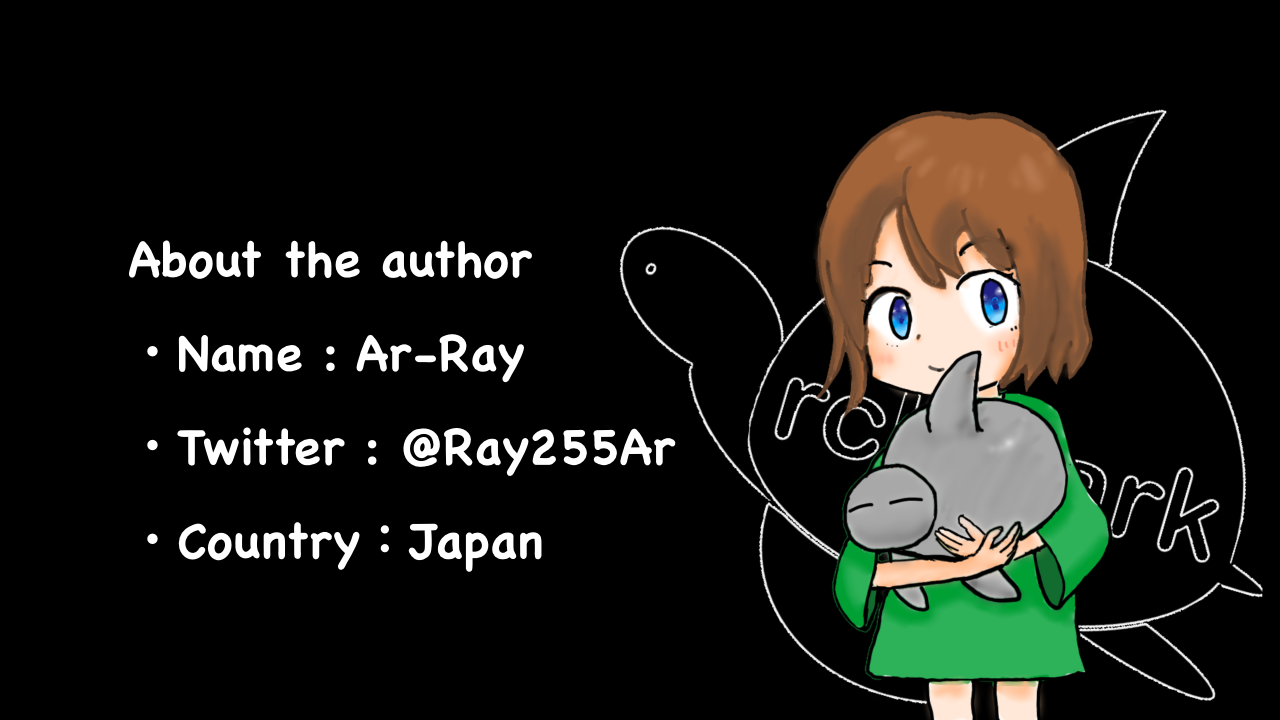
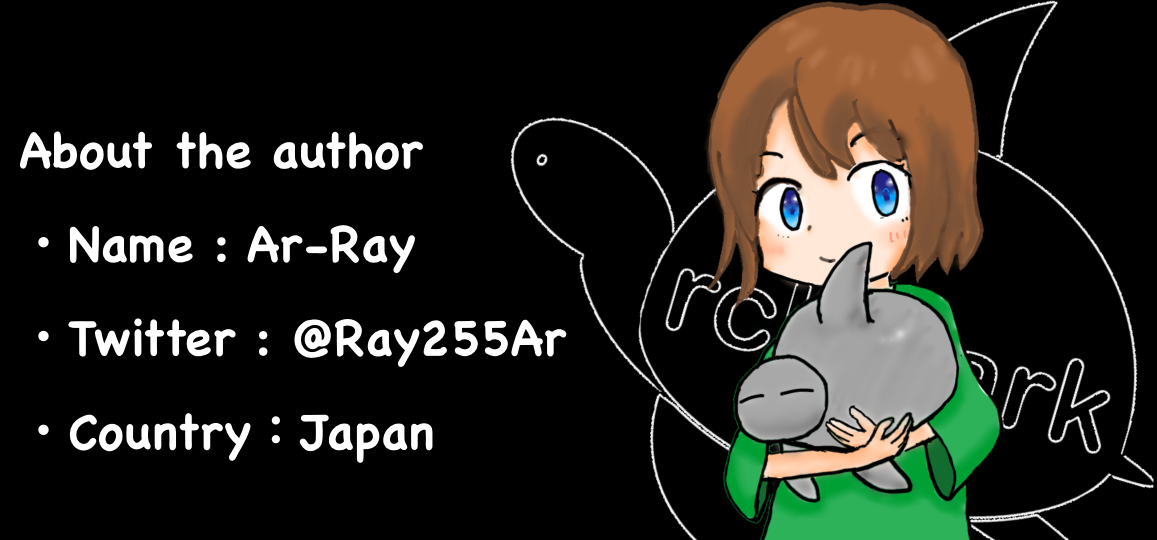
update rclshark

diff --git a/README.md b/README.md
@@ -8,11 +8,7 @@ latest : [v1.0.3](https://github.com/Ar-Ray-code/rclshark/releases/tag/v1.0.3)
 
 Monitor the status of computers on a network using the DDS function of ROS2.
 
-開発者向けのツールで、リモートマシンへのSSHログインの際に必要なローカルIPアドレスを簡単に発見します。リモートマシンに対して拡張機能を追加し、CPU温度などのマシン内部の情報をログイン無しでモニタリングすることもできます。
-
-rclsharkはセットアップされたデバイスに対してIPアドレス固定などのデバイスごとの面倒なセットアップ無しにIPアドレスの取得を行い、デバイスの状態を取得することができます。インストールも簡単で、組み込みコンピュータの新規開発のお供として役に立ちます。
-
-<img src="images_for_readme/rclshark_swim.png" alt="rclshark_swim"  />
+![rclshark-title](images_for_readme/rclshark-title.png)
 
 ## Documents
 
